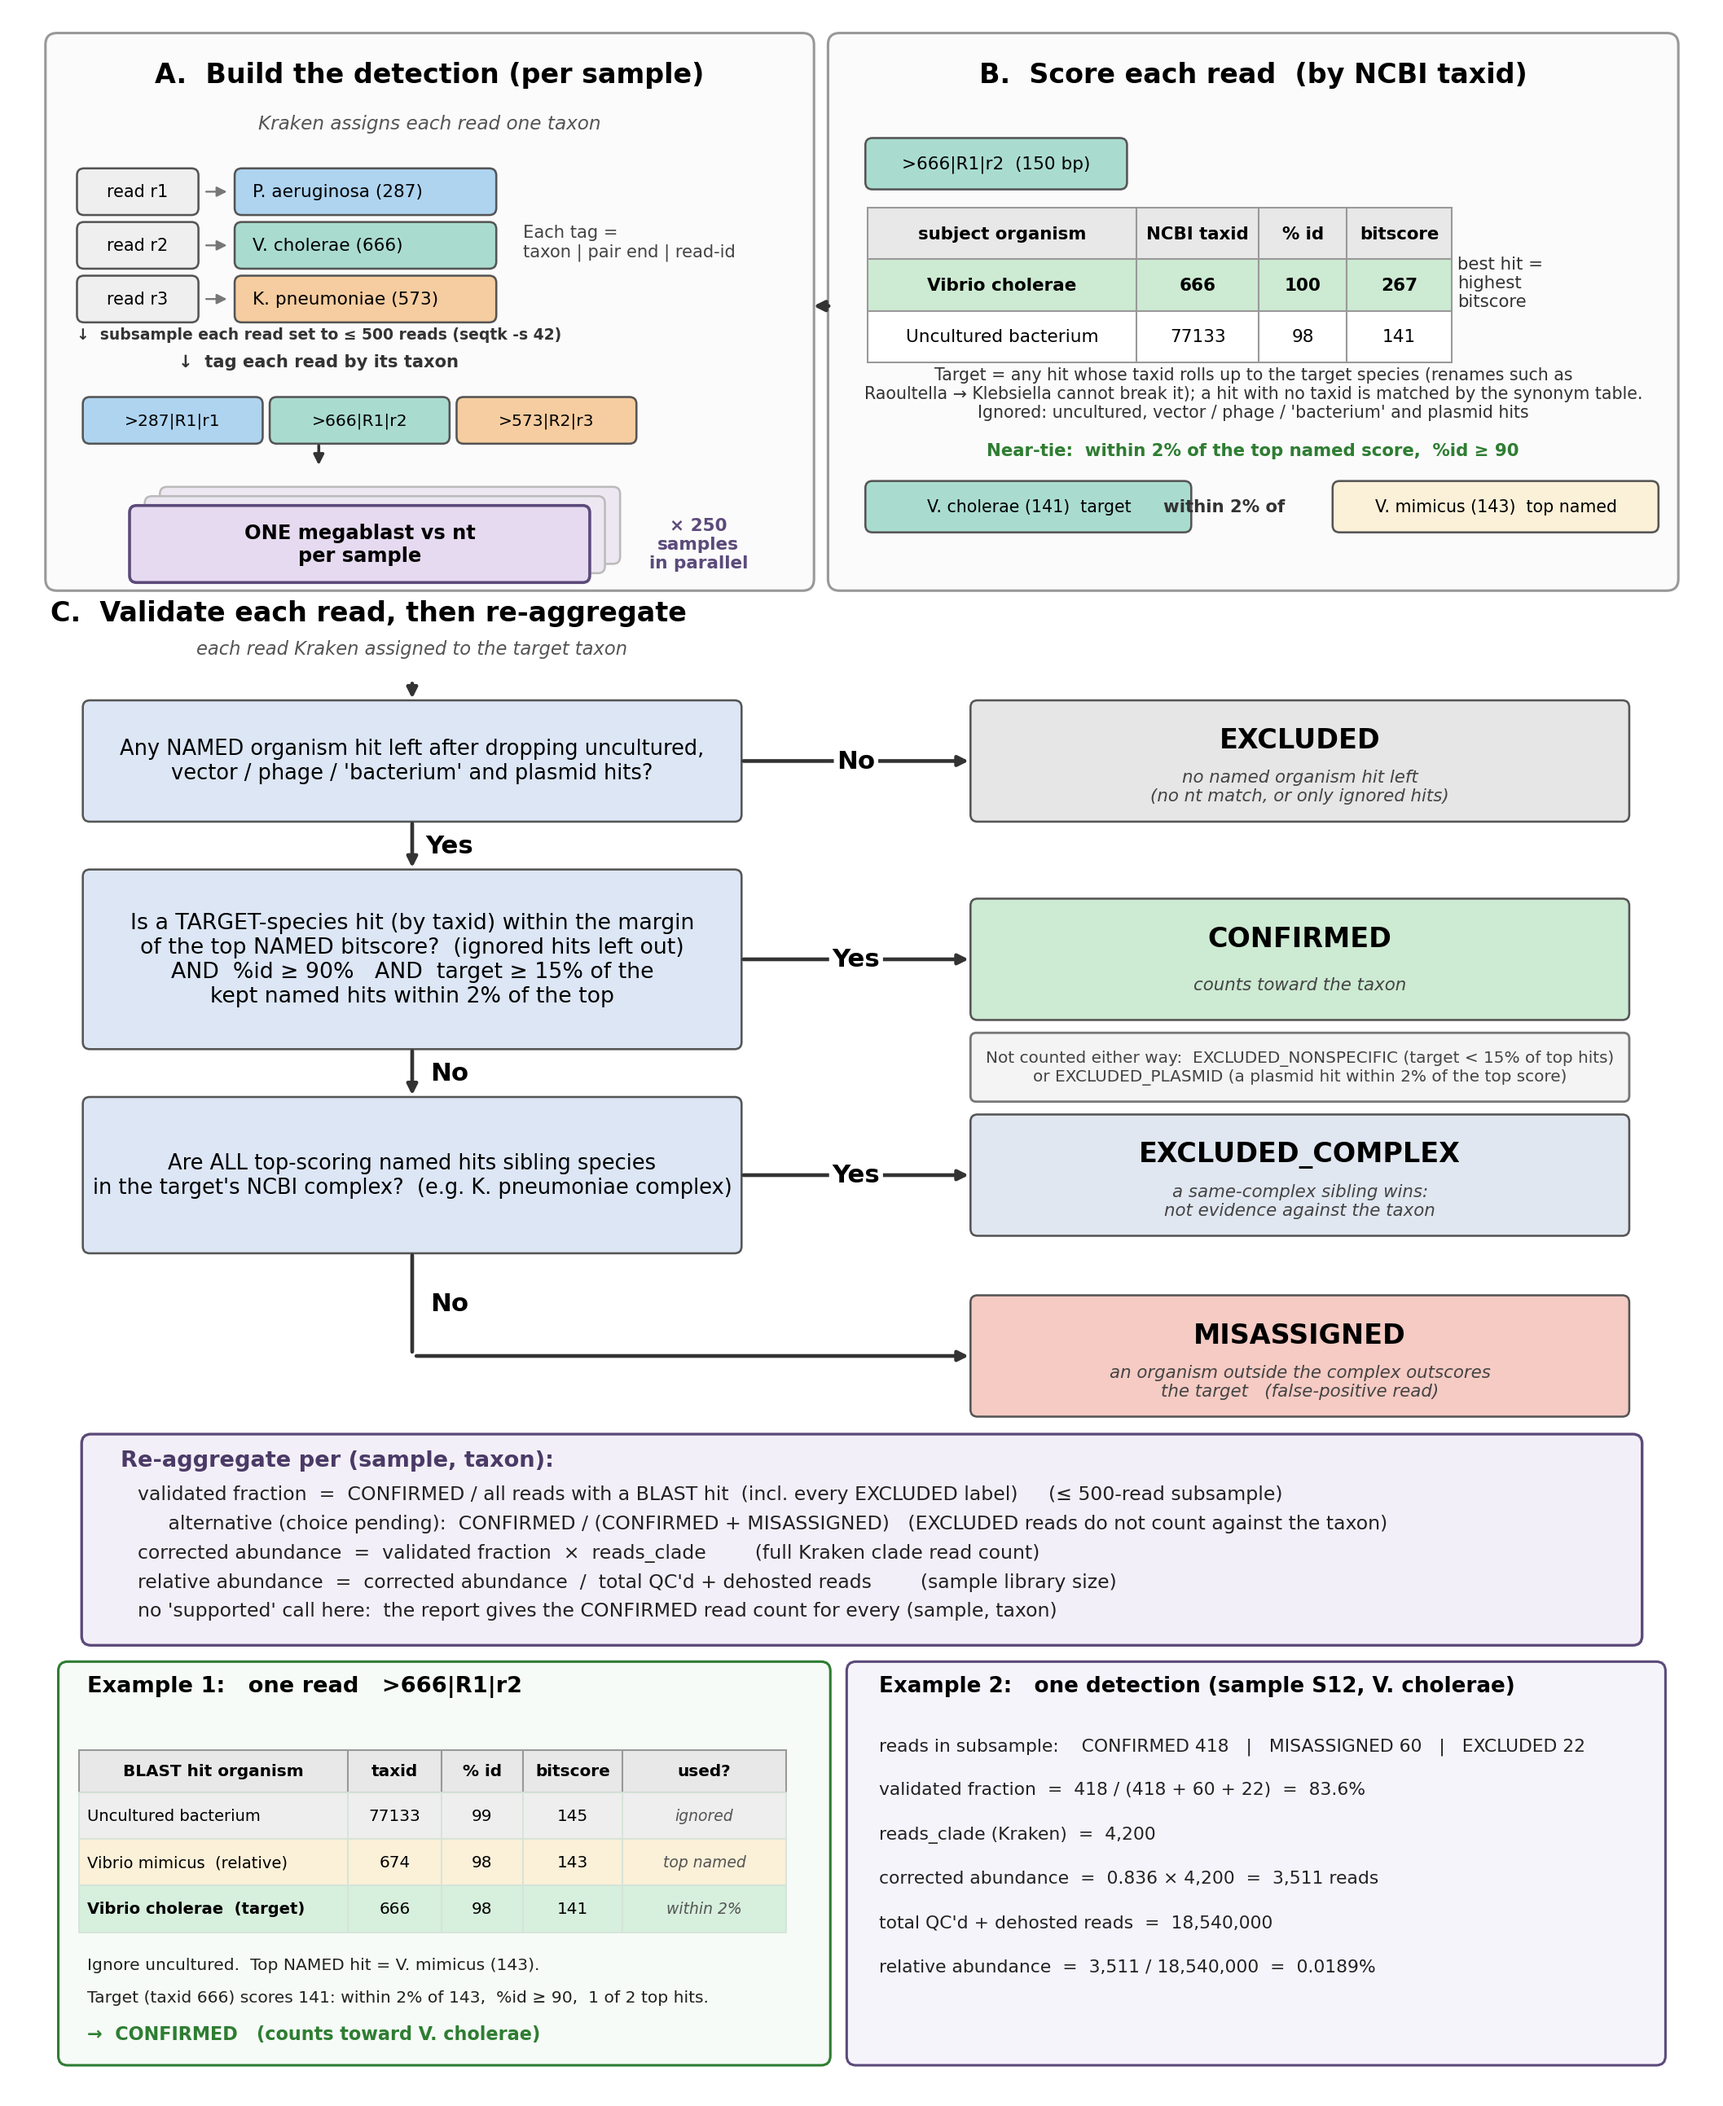
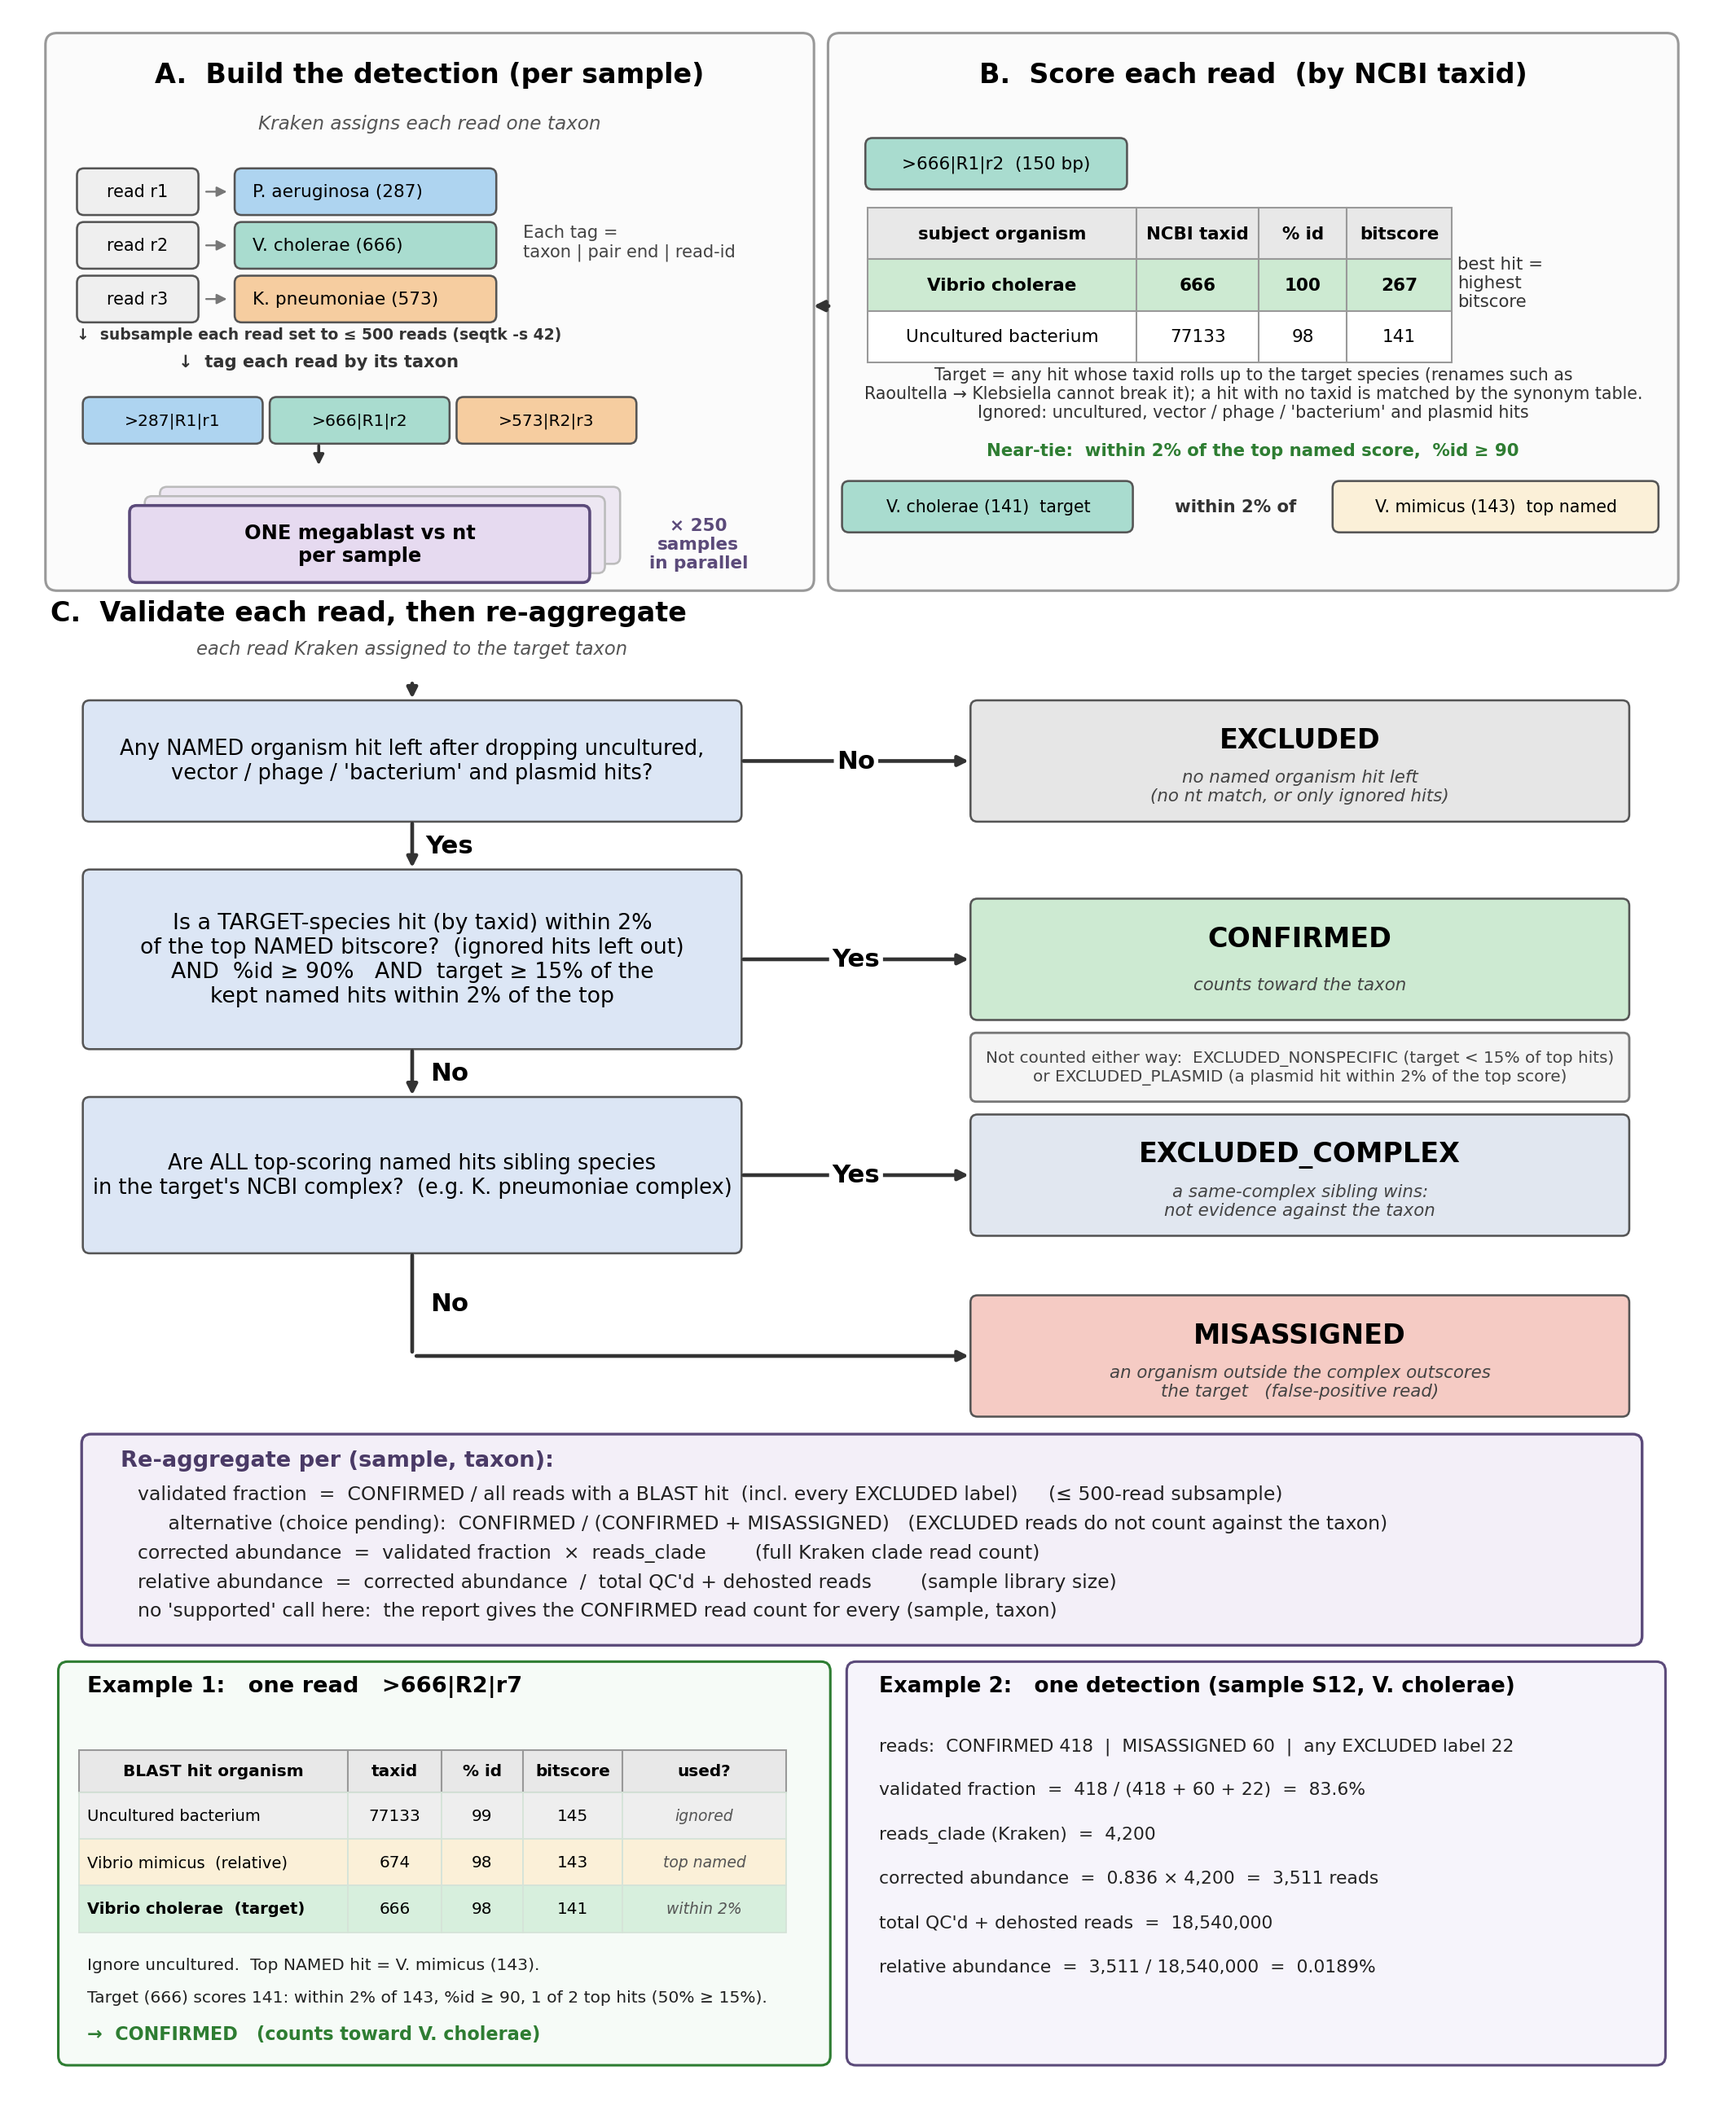
Master methods figure: say 2% in the decision box, fix panel B overlap, show the 15% share in Example 1, any EXCLUDED label in Example 2

diff --git a/docs/make_master_methods_figure.py b/docs/make_master_methods_figure.py
@@ -65,8 +65,8 @@ ax.text(12.35,15.5,"best hit =\nhighest\nbitscore",ha="left",va="center",fontsiz
 ax.text(10.6,14.55,"Target = any hit whose taxid rolls up to the target species (renames such as\nRaoultella → Klebsiella cannot break it); a hit with no taxid is matched by the synonym table.\nIgnored: uncultured, vector / phage / 'bacterium' and plasmid hits",
         ha="center",va="center",fontsize=8.0,color="#333")
 ax.text(10.6,14.02,"Near-tie:  within 2% of the top named score,  %id ≥ 90",ha="center",fontsize=8.3,fontweight="bold",color=GRN)
-rb(7.3,13.78,2.75,0.4,CHO); ax.text(8.68,13.58,"V. cholerae (141)  target",ha="center",va="center",fontsize=8.0)
-ax.text(10.35,13.58,"within 2% of",ha="center",va="center",fontsize=8.3,fontweight="bold",color="#333")
+rb(7.1,13.78,2.45,0.4,CHO); ax.text(8.33,13.58,"V. cholerae (141)  target",ha="center",va="center",fontsize=8.0)
+ax.text(10.45,13.58,"within 2% of",ha="center",va="center",fontsize=8.3,fontweight="bold",color="#333")
 rb(11.3,13.78,2.75,0.4,"#FBF0D8"); ax.text(12.68,13.58,"V. mimicus (143)  top named",ha="center",va="center",fontsize=8.0)
 
 arrow(7.0,15.3,6.8,15.3,lw=1.9)   # A -> B
@@ -81,7 +81,7 @@ d1,d2,d3=11.4,9.7,7.85; hb=1.0; h2=1.5; h3=1.3; mis=6.3
 ax.text(3.4,12.32,"each read Kraken assigned to the target taxon",ha="center",fontsize=8.8,style="italic",color="#555")
 arrow(3.4,12.1,3.4,d1+hb/2,head=True)
 dec(d1,hb,"Any NAMED organism hit left after dropping uncultured,\nvector / phage / 'bacterium' and plasmid hits?",fs=10.0)
-dec(d2,h2,"Is a TARGET-species hit (by taxid) within the margin\nof the top NAMED bitscore?  (ignored hits left out)\nAND  %id ≥ 90%   AND  target ≥ 15% of the\nkept named hits within 2% of the top",fs=10.4)
+dec(d2,h2,"Is a TARGET-species hit (by taxid) within 2%\nof the top NAMED bitscore?  (ignored hits left out)\nAND  %id ≥ 90%   AND  target ≥ 15% of the\nkept named hits within 2% of the top",fs=10.4)
 dec(d3,h3,"Are ALL top-scoring named hits sibling species\nin the target's NCBI complex?  (e.g. K. pneumoniae complex)",fs=10.0)
 leaf(d1,"EXCLUDED","no named organism hit left\n(no nt match, or only ignored hits)")
 leaf(d2,"CONFIRMED","counts toward the taxon")
@@ -111,7 +111,7 @@ for yy,txt in [
 # ===================== worked examples =====================
 # ---- Example 1: one read ----
 ax.add_patch(FancyBboxPatch((0.4,0.25),6.55,3.4,boxstyle="round,pad=0.03,rounding_size=0.08",lw=1.2,edgecolor=GRN,facecolor="#F6FBF7"))
-ax.text(0.62,3.42,"Example 1:   one read   >666|R1|r2",fontsize=10.6,fontweight="bold")
+ax.text(0.62,3.42,"Example 1:   one read   >666|R2|r7",fontsize=10.6,fontweight="bold")
 e1hx=[0.55,2.85,3.65,4.35,5.20]; e1hw=[2.30,0.80,0.70,0.85,1.40]
 for j,h in enumerate(["BLAST hit organism","taxid","% id","bitscore","used?"]):
     ax.add_patch(Rectangle((e1hx[j],2.56),e1hw[j],0.36,facecolor="#E8E8E8",edgecolor="#999",lw=0.8)); ax.text(e1hx[j]+e1hw[j]/2,2.74,h,ha="center",va="center",fontsize=7.8,fontweight="bold")
@@ -128,13 +128,13 @@ for i,(org,tid,pid,bit,note,bg) in enumerate(e1rows):
     ax.text(e1hx[3]+e1hw[3]/2,cyc,bit,ha="center",va="center",fontsize=7.8)
     ax.text(e1hx[4]+e1hw[4]/2,cyc,note,ha="center",va="center",fontsize=7.3,style="italic",color="#555")
 ax.text(0.62,1.04,"Ignore uncultured.  Top NAMED hit = V. mimicus (143).",fontsize=7.9,color="#222")
-ax.text(0.62,0.76,"Target (taxid 666) scores 141: within 2% of 143,  %id ≥ 90,  1 of 2 top hits.",fontsize=7.9,color="#222")
+ax.text(0.62,0.76,"Target (666) scores 141: within 2% of 143, %id ≥ 90, 1 of 2 top hits (50% ≥ 15%).",fontsize=7.9,color="#222")
 ax.text(0.62,0.44,"→  CONFIRMED   (counts toward V. cholerae)",fontsize=8.7,fontweight="bold",color=GRN)
-# ---- Example 2: is the (sample, taxon) supported? ----
+# ---- Example 2: one detection, validated fraction and corrected abundance ----
 ax.add_patch(FancyBboxPatch((7.15,0.25),6.95,3.4,boxstyle="round,pad=0.03,rounding_size=0.08",lw=1.2,edgecolor="#5b4a7a",facecolor="#F6F4FB"))
 ax.text(7.4,3.42,"Example 2:   one detection (sample S12, V. cholerae)",fontsize=10.2,fontweight="bold")
 for yy,txt in [
- (2.92,"reads in subsample:    CONFIRMED 418   |   MISASSIGNED 60   |   EXCLUDED 22"),
+ (2.92,"reads:  CONFIRMED 418  |  MISASSIGNED 60  |  any EXCLUDED label 22"),
  (2.54,"validated fraction  =  418 / (418 + 60 + 22)  =  83.6%"),
  (2.16,"reads_clade (Kraken)  =  4,200"),
  (1.78,"corrected abundance  =  0.836 × 4,200  =  3,511 reads"),
